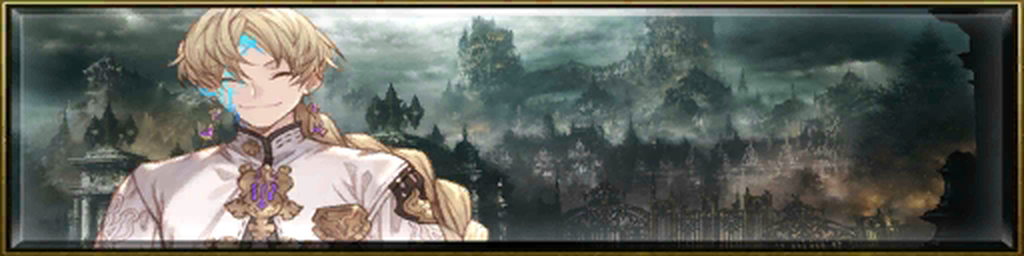
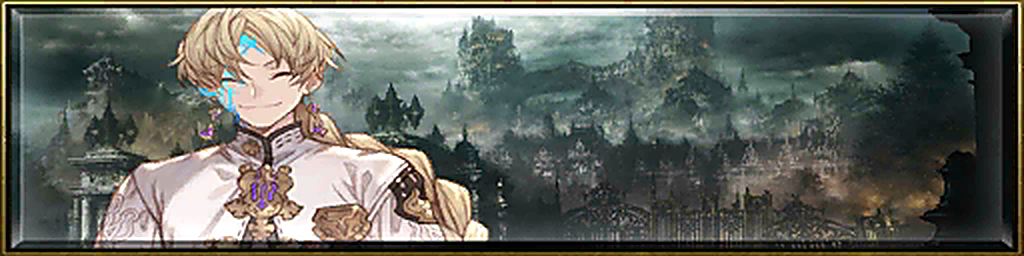
Restore the skin thumbnail override and sharpen the borrowed artwork
The client asks for ClassCharaSkinThumbnail on the deck-selection screen;
dropping that override left the client's own base art (no plate frame, cut
out background) there, which looked worse. Ship it again, and Lanczos-
upscale plus lightly sharpen every borrowed asset (the CN mobile pack is
half the international resolution), so the deck plate, thumbnails and
win/lose art are as sharp as the source allows. The profile and select
button stay unoverridden so the plugin keeps using the client's base art.

diff --git a/Mods/LeaderSkins/README.md b/Mods/LeaderSkins/README.md
@@ -11,13 +11,19 @@
 ```
 Mods/LeaderSkins/
   4102/                         <- 皮肤号（韦斯）
-    btn_deck_4102.png
-    class_4102_base_win.png
-    class_4102_base_lose.png
+    class_skin_4102.png         （国服图，Lanczos 放大 + 轻度锐化）
+    btn_deck_4102.png           （同上）
+    class_4102_base_win.png     （同上）
+    class_4102_base_lose.png    （同上）
 ```
 
 文件名 = **官方素材名**（不含扩展名）+ `.png`。插件两种放法都认：先找 `<皮肤号>/<素材名>.png`，
 找不到再看 `LeaderSkins/<素材名>.png`（兼容直接平铺的旧放法）。
+
+> 国服（手机版）的同名素材分辨率只有国际服的一半（缩略图 256²、按钮图 128²、卡组立绘
+> 512×128、资料图/胜负立绘 1024²），所以放进来之前统一用 Lanczos 放大到国际服尺寸并做
+> 轻度锐化（`ImageFilter.UnsharpMask(radius=2, percent=110, threshold=3)`）。
+> 调模拟器分辨率**不会**改变这些素材文件（客户端不会重新下载更高清的版本）。
 
 ## ⚠ 放图之前先确认"构图"跟国际服一致
 
@@ -29,14 +35,14 @@ Mods/LeaderSkins/
 
 | 素材 | 国际服正常皮肤 | 国服 4102 | 结论 |
 | --- | --- | --- | --- |
-| `btn_deck_*`（卡组立绘） | 宽条、左半边人物+背景 | 同一构图 | ✅ 可用国服的 |
-| `class_*_base_win/_lose`（胜利/失败立绘） | 全身 | 全身、比例一致 | ✅ 可用国服的 |
+| `btn_deck_*`（卡组立绘） | 宽条、左半边人物+背景 | 同一构图 | ✅ 用国服的（放大+锐化） |
+| `class_*_base_win/_lose`（胜利/失败立绘） | 全身 | 全身、比例一致 | ✅ 用国服的（放大+锐化） |
+| `class_skin_*`（皮肤缩略图） | 胸像+官方边框 | 同构图，人物略大 | ✅ 用国服的（放大+锐化） |
 | `class_*_profile`（资料图） | **全身**立绘 | **半身**，人物大一圈 | ❌ 不用，交给插件用官方立绘 |
-| `class_skin_*`（皮肤缩略图） | 胸像 | 更紧的胸像 | ❌ 同上 |
-| `class_select_thumbnail_*`（选择按钮图） | 头肩/脸，留有边距 | 整张脸铺满、头顶被切 | ❌ 同上 |
+| `class_select_thumbnail_*`（选择按钮图） | 头肩/脸，留有边距 | 整张脸铺满、头顶被切 | ❌ 不用，交给插件裁官方立绘 |
 
-所以 4102 只放了前两类；缩略图/按钮图/资料图由插件拿国际服自带的
-`ui_class_4102_base`（官方立绘）按官方尺寸（512×512 / 256×256）裁成半身像使用。
+所以 4102 放了卡组立绘、缩略图、胜负立绘；资料图和选择按钮图由插件拿国际服自带的
+`ui_class_4102_base`（官方立绘）按官方尺寸（1024×1024 / 256×256）裁切使用。
 
 ## 各文件名的用途与官方尺寸
 
